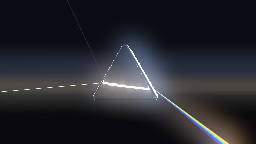
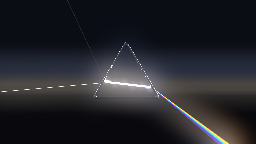
T934: passive body drift — LFOs on the object, never the aim
Two sines at mutually incommensurate frequencies (0.041 Hz / 0.067 Hz, phases 0.13 /
0.71) ride form1's spare slots, summed ON TOP of the T928 cursor tilt (yaw +-0.05, nod
+-0.03 rad — 'slight', the owner's word). The pointer still owns the ray; the glass
drifts underneath it, so a parked cursor keeps producing new pictures. Deterministic by
construction — a clock, not an RNG (§V74).

The T915 liveness exemption is now STALE and removed: E13 measures real motion again
(0.00639 against the 0.002 floor), baseline re-measured. E13-Prism.md rewritten for the
T915b/T929/T934 reality (it still described stir/urge/hold and the static rest).

New gate (concepts): with the pointer PARKED, form1's drift slot visits 20+ distinct
values over five seconds while the optics aim visits exactly ONE string — the
drift/aim separation, which is what keeps T934 from quietly undoing T915.

Note: T928's cursor tilt was already shipped, so the owner's 'both' reading is served;
flagged to the orchestrator rather than guessed silently.

Suites: concepts/e13-prism (11), liveness (46), look-baseline.gpu, point-kernel-params
(re-pinned f7b08fe83085449f), prism.gpu + prism-trace.gpu (26 prior run). typecheck: my
files clean (live-clock.ts error belongs to a concurrent agent's in-flight edit).

Claude-Session: https://claude.ai/code/session_01GzHWvJkJH5ynafwbVvfoVd

Changed region(s): [[0.375, 0.25, 0.6562, 0.75], [0.4062, 0.4444, 0.4375, 0.5], [0.3438, 0.6389, 0.375, 0.6944]]

diff --git a/src/examples/documents/prism.ts b/src/examples/documents/prism.ts
@@ -269,8 +269,10 @@ fn process(p: Point, ctx: PointCtx) -> Point {
      to follow. The cross-section the beam crosses keeps its silhouette. */
   /* Rest (0,0) sits at a GENTLE turn, not the band's edge — the never-moved card
      keeps its read while the swivel is still there to find. */
-  let yaw = clamp(ctx.value1, 0.0, 1.0) * 0.44 - 0.10;
-  let nod = clamp(ctx.value2, 0.0, 1.0) * 0.22 - 0.05;
+  /* T934: the LFO drift rides ON TOP of the cursor's tilt — the object breathes, the
+     hand still steers. Slight by the owner's word: ±0.05 / ±0.03 rad. */
+  let yaw = clamp(ctx.value1, 0.0, 1.0) * 0.44 - 0.10 + clamp(ctx.value3, -1.0, 1.0) * 0.05;
+  let nod = clamp(ctx.value2, 0.0, 1.0) * 0.22 - 0.05 + clamp(ctx.value4, -1.0, 1.0) * 0.03;
   let cy = cos(yaw); let sy = sin(yaw);
   pos = vec3f(pos.x * cy + pos.z * sy, pos.y, -pos.x * sy + pos.z * cy);
   let cx = cos(nod); let sx = sin(nod);
@@ -320,6 +322,15 @@ export const prismDocument = document(
       // the aim while it moves (T857) and the lag chain hands it back to the static.
       node("mouse", "mouse", [-1880, 840], {}, { label: "mouse1" }),
       node("follow", "valueLag", [-1560, 840], { lag: 0.18 }, { label: "follow1" }),
+      /* T934 — PASSIVE BODY DRIFT, on the OBJECT and never the aim. The owner: "slight
+         rotate, pivot, swivel … driven by lfos … different frequencies resp slight
+         offsets for the different axis". Two sines at mutually incommensurate
+         frequencies (0.041 Hz and 0.067 Hz — 24.4s against 14.9s, ratio 1.63…) with
+         different phases: the pair never visibly repeats, yet every frame reproduces
+         (§V74 — a clock, not an RNG). They feed form1's spare slots only; the pointer
+         still owns the ray, and the T915b gate now proves the SEPARATION. */
+      node("driftyaw", "lfo", [-1560, 1000], { shape: "sine", frequency: 0.041, phase: 0.13 }, { label: "driftyaw1" }),
+      node("driftnod", "lfo", [-1560, 1160], { shape: "sine", frequency: 0.067, phase: 0.71 }, { label: "driftnod1" }),
       // itself, which is the only absolute value the CHOP set has and is also the right
       // 0.6s to fall, so the hand keeps the aim for a second or two after it stops and
       // then gives it back. A cursor that has never moved reads EXACTLY zero through all
@@ -367,6 +378,8 @@ export const prismDocument = document(
         parameters: {
           value1: drivenSlot("follow1:x", 0),
           value2: drivenSlot("follow1:y", 0),
+          value3: drivenSlot("driftyaw1", 0),
+          value4: drivenSlot("driftnod1", 0),
         },
       }),
       // The environment term compiles for PHONG only, and nothing warns you otherwise: a

diff --git a/src/examples/concepts/e13-prism.test.ts b/src/examples/concepts/e13-prism.test.ts
@@ -304,6 +304,34 @@ describe("E13 Prism", () => {
   });
 
   /**
+   * T934 — THE DRIFT AND THE AIM ARE SEPARATE CHANNELS, and the T915b property survives
+   * the body coming back to life. With the pointer PARKED: form1's drift slots genuinely
+   * oscillate (the owner's passive movement — two sines at incommensurate frequencies,
+   * a clock, not an RNG), while the aim does not move by a millionth. This is the gate
+   * that keeps T934 from quietly undoing T915.
+   */
+  it("drifts the body on a clock while the parked aim holds still (T934)", () => {
+    const slotOf = (source: CompiledGraph, node: string, slot: string): number => {
+      const dispatch = source.passes.find((entry) => entry.kind === "dispatch" && entry.nodeId === node);
+      return ((dispatch as { uniforms?: Record<string, number> }).uniforms ?? {})[slot] as number;
+    };
+    const run = valueGraphRun(document);
+    const parked: Pointer = { x: 0.4, y: 0.35, buttons: 0 };
+    run.hold(parked, 240); // settle the lag mid-frame, then watch
+    const yaws = new Set<number>();
+    const aims = new Set<string>();
+    for (let index = 0; index < 300; index += 1) {
+      const { plan: live } = run.step(parked);
+      yaws.add(Number(slotOf(live, "form", "value3").toFixed(4)));
+      aims.add(`${slotOf(live, "optics", "value1").toFixed(6)}/${slotOf(live, "optics", "value3").toFixed(6)}`);
+    }
+    // Five seconds of frames: the drift visited many distinct values …
+    expect(yaws.size).toBeGreaterThan(20);
+    // … and the aim visited exactly one.
+    expect(aims.size).toBe(1);
+  });
+
+  /**
    * HUE AND REFRACTIVE INDEX ARE ONE PARAMETER, which is the reason the spectrum is
    * ordered rather than merely colourful.
    *

diff --git a/src/examples/liveness.test.ts b/src/examples/liveness.test.ts
@@ -110,7 +110,7 @@ import LOOK_BASELINES from "./look-baselines.json" with { type: "json" };
  *   E10 Instanced-Torus         0.01845   0.3710   0.3710
  *   E11 Gradient-Remap          0.11181   0.4466   0.4705
  *   E12 Fluid                   0.00000   0.0869   0.3868   <- declared, pointer-driven
- *   E13 Prism                   0.19303   1.0000   1.0000   <- re-measured, see below
+ *   E13 Prism                   0.19303   1.0000   1.0000   <- T934: live again (body drift)
  *   E16 Murmuration             0.05786   0.8003   0.3596
  *   E20 Gooeyball               0.01405   0.5957   0.6980
  *   E24 Audio-RD                0.03971   0.5074   0.0000   <- declared, seeds from black
@@ -209,15 +209,6 @@ interface Exemption {
  * and a stale one.
  */
 const DECLARED: Readonly<Record<string, Exemption>> = {
-  "E13-Prism.loom.json": {
-    liveness:
-      "T915: the owner asked for a STATIC prism — 'it should be static aside from user " +
-      "interaction' — so the swing LFO and the camera drift are gone and every motion " +
-      "source left is the pointer. Headless has no pointer, so the beam rests at the " +
-      "chosen default aim and motion is exactly zero. That is the example working: the " +
-      "physics answers the hand, not a clock.",
-    evidence: "Move the pointer and the aim follows; park it and the beam settles back",
-  },
   "E12-Fluid.loom.json": {
     liveness:
       "A fluid at rest IS at rest. Every force in this file comes from the pointer — the " +

diff --git a/src/nodes/definitions/point-kernel-params.test.ts b/src/nodes/definitions/point-kernel-params.test.ts
@@ -364,7 +364,7 @@ const FRAME_ZERO_DIGESTS: Readonly<Record<string, string>> = {
   // resolved kernel state deliberately, then T920 rebuilt the optics kernel as a
   // marched BEAM (SDF bevel boundary, 9x61x3 slots) and T915b handed the aim to the
   // pointer exclusively (y angle / x walk, no authority blend); re-pinned at each.
-  "E13-Prism.loom.json": "1e9b6e9b4981bb5e",
+  "E13-Prism.loom.json": "f7b08fe83085449f",
   "E16-Murmuration.loom.json": "74f35048da9b841e",
   "E20-Gooeyball.loom.json": "7d059f6ab538949e",
   "E25-Stage.loom.json": "8ef074cc584fae53",

diff --git a/examples/E13-Prism.md b/examples/E13-Prism.md
@@ -1,7 +1,7 @@
 # E13 — Prism
 
 A triangular block of glass in deep black, drawn entirely by the light caught on its edges.
-A white beam enters low from the right and a spectrum fans out to the left.
+A white beam enters from the left and a spectrum fans out to the right.
 
 The fan opens and closes as the beam's aim changes, because the fan is Snell's law and
 not a drawing.
@@ -15,14 +15,15 @@ since T758: it is transmissive, so the traced interior segment is seen *through*
 face, and its Schlick fresnel against the environment carries the same thin bright rim
 along every silhouette that the phong `envFresnel` used to — same physics, different name.
 
-The prism is **static aside from your interaction** (T915, the owner's ask). The default
-aim is a deliberately chosen rest pose — the steep end of the band, where the dispersion
-shows widest. A moving cursor **takes** the aim (T857), across a much wider range than the
-resting band, and hands it back a couple of seconds after you stop — including far enough
-to walk the beam off the end of the glass entirely. With no pointer the picture holds its
-rest frame exactly, which is why the headless liveness gate carries a declared
-pointer-driven exemption: the motion is yours.
-Move the pointer and the aim follows; park it and the beam settles back.
+**The cursor is a torch** (T929). Its x carries the lamp around the prism on a 240° arc —
+every face and every incidence, by walking around it, like holding the light. Its y slides
+the aim across the body: at 0 it points at the incenter, which strikes every face at its
+exact middle; at the top of the travel the beam clears the glass entirely — missing is a
+state, not a failure. Nothing decays and nothing resets (T915b): a parked cursor is a
+parked beam, forever. The BODY, meanwhile, both tilts with the same cursor (T928) and
+drifts on two slow sines at incommensurate frequencies (T934, 24.4s against 14.9s) — so
+the same mouse position keeps producing slightly new pictures while the ray stays exactly
+where you left it. The drift is a clock, not an RNG: every frame reproduces.
 
 ## Graph
 
@@ -42,10 +43,9 @@ key1(light), eye1(camera) ──── by name ───────────
 shot1 ─► cut1(level) ─► clip1(limit) ─► halo1(blur) ─► glow1.in2
 shot1 ────────────────────────────────────────────► glow1(add) ─► out1(output)
 
-optics1.value1 = 1 (static)                                         the aim, at rest (T915)
-mouse1 ─► follow1(valueLag) ┄drives┄► optics1.value3                the aim, by hand
-follow1 ─► stir1(valueSlope) ─► urge1(valueMath) ─► hold1(valueLag)
-                              ┄drives┄► optics1.value4              which one (T857)
+mouse1 ─► follow1(valueLag) ┄drives┄► optics1.value1 (y) + value3 (x)   the torch (T929)
+follow1 ┄drives┄► form1.value1 (x) + value2 (y)                     the body tilt (T928)
+driftyaw1(lfo 0.041Hz), driftnod1(lfo 0.067Hz) ┄drive┄► form1.value3/4  the drift (T934)
 fan1.tint ← the `tint` attribute                                    the map mode
 ```
 
@@ -57,7 +57,7 @@ fan1.tint ← the `tint` attribute                                    the map mo
 | `solid1` | `geometry` | `mode: surface` |
 | `spectrum1` | `ramp` | seven stops, red → violet. The kernel samples it at `u = t`, and `t` is also the refractive index |
 | `optics1` | `pointKernel` | Snell's law twice per band, 61 bands, plus the shaft and its reflected ghost |
-| `stir1`, `urge1`, `hold1` | `valueSlope`, `valueMath`, `valueLag` | the pointer's AUTHORITY (T857): how fast the cursor is moving, squared to make it unsigned, through an envelope that rises in 0.02 s and falls over 0.6 s |
+| `driftyaw1`, `driftnod1` | `lfo` | the body's passive drift (T934): two sines at incommensurate frequencies, riding on top of the cursor tilt, never touching the aim |
 | `shaft1` | `geometry` | `mode: beam`, taper 1 — a parallel-sided ribbon |
 | `fan1` | `geometry` | `mode: beam`, taper 0.06, **tint mapped per point** |
 | `sky1`, `band1` | `ramp`, `circle` | the equirect: near-black, with a bright band on its horizon at (0.5, 0.5) |
@@ -185,49 +185,29 @@ the same incidence the refraction uses gives the share the entry face sends back
 37°, rising to 8.3% at 62° — and that share *is* its tint, so the reflected streak
 brightens as the fan narrows, out of one number rather than a second knob.
 
-### One hand on the aim, over a chosen rest (T857, T915)
+### The cursor is a torch (T915b, T929)
 
-The auto swing is gone (T915): `value1` is a static default — the steep end of the band,
-where the fan shows widest — and the only thing that moves the aim is you.
+T857's blend and its velocity envelope are gone — `hold1` decayed when the cursor stopped,
+which was the owner's "reset after a time": the aim changed when the input didn't. The only
+motion filter left is `follow1`'s positional lag, which settles AT the pointer and stays.
 
-`mouse1 → follow1(valueLag) → value3` is the pointer. What changed in T857 is how the two
-*meet*. They used to be summed in the kernel — `clamp(value1 + 0.55·value3, 0, 1)` — and
-the owner's report reads straight off that line: *the mouse controls get overridden by the
-auto movement, the range of motion is too limited, and we can't miss the glass triangle.*
-Both halves are the one wiring. A **square** LFO visits two aims and slams between them, so
-the pointer was a small delta riding on a jump and never had the aim at all; and a sum of
-two 0…1 terms is bounded, so no cursor position could reach an extreme, let alone aim the
-beam past the glass.
+The mapping is direct manipulation rather than parameter mapping. `x` sets the lamp's
+place on a 240° arc of radius 3.3 around the prism (rest: level-left, the classic card);
+`y` offsets the aim perpendicular to the lamp's sightline — 0 aims at the incenter, whose
+rays meet every face at the middle, and the far end carries the beam past the body. Both
+axes reach the kernel as `value1`/`value3`; the shaft is cast FROM the lamp, so every beam
+end runs off-frame (T929) instead of cutting in mid-air.
 
-So the kernel **mixes** them, weighted by whether a hand is on the pointer at all:
-`mix(swingAngle, handAngle, hand)`, with `hand = clamp(400·value4, 0, 1)`. `value4` is the
-cursor's own motion — `follow1 → stir1(valueSlope) → urge1(× itself) → hold1(valueLag)`,
-i.e. speed, squared to make it unsigned, through an envelope that rises in 0.02 s and falls
-with a 0.6 s time constant. A cursor moving faster than a twentieth of the frame per second
-owns the aim outright; the hold lasts `0.6·ln(400·speed²)` seconds after it stops, so a
-decisive gesture keeps control longer than a nudge. And a cursor that has **never** moved
-reads exactly 0 through all three stages, so every gate and every fresh session still sees
-the LFO's picture bit for bit, exactly as the additive build promised.
-
-**The swing is not touched**, which is §T842's lesson rather than caution: the square, the
-slam and the two angles it visits are this example's character, so the fix is in how the
-terms *combine* and never in what the auto term is. The widening lives entirely on the
-pointer's own scale — 84° to 6° against the swing's 62° to 37° — and the same one knob
-walks the **entry point** along the face, from below the base vertex to past the apex,
-because a beam you aim does not pivot about a fixed spot on the glass. Pinning the entry
-point is exactly what made the old aim unable to miss.
-
-Measured at column 240, `value1` pinned so only the pointer moves: the fan's midpoint sits
-at y 289.5 with the cursor parked and y 123 with it moving — a **166px** swing, against the
-86px the additive build managed with the cursor *held* at the end of its travel. Five
-seconds after the cursor stops, the fan is back within **2.5px** of the parked frame.
+The gate that keeps it honest is the one that would have caught the envelope: hold the
+pointer still at a non-default position and the aim must not move — measured below 1e-6
+over five seconds, plan-level and picture-level both.
 
 ### And it can miss the glass
 
 The refracting face is a **segment**, not a plane: an equilateral cross-section's half side
-is its inradius times √3, which is 0.658 here — the same `RI` the mesh and the optics
-already share, so the bound is not a fourth number to keep in step. The pointer's reach
-runs to ±0.8, so the outer ninth of the travel at each end puts the entry past a vertex,
+is its inradius times √3, which is 0.658 here — though the usable span is shorter: the
+bevel rounds the corners away, and the marched trace (T920) says a ray aimed at the sharp
+triangle's last arc-width misses the real body. The top of the y travel aims past it all,
 and there the ray is travelling *away* from the body: the fan collapses to zero length
 (zero area, T680) and the shaft carries straight on past the glass instead of stopping at a
 face it never met. Missing is a **state**, not a failure — it is the diagnostic the owner
@@ -240,10 +220,9 @@ full missed frame rather than a solo render the beam never entered. The shaft ke
 pixels past the apex and 3,183 past the base, none of them inside a 3px erosion of the
 body: the exact inversion of the T718 claim above, on the same instrument.
 
-The camera holds still at 0.45 (T915 removed its drift with the swing — static aside from
-interaction). The cost is named rather than hidden: `envFresnel` reads `dot(N, viewDir)`,
-so a moving eye is what made the rim travel; at rest the rim sits where the pose puts it,
-and the motion budget belongs entirely to the pointer.
+The camera holds still, centered by measurement (T928/T930: body bbox centre within 9px of
+the frame's). The eye doesn't move; the BODY does — cursor tilt plus the T934 drift — so
+the rim travels with the glass rather than with a camera sway.
 
 ## What breaks here first
 
